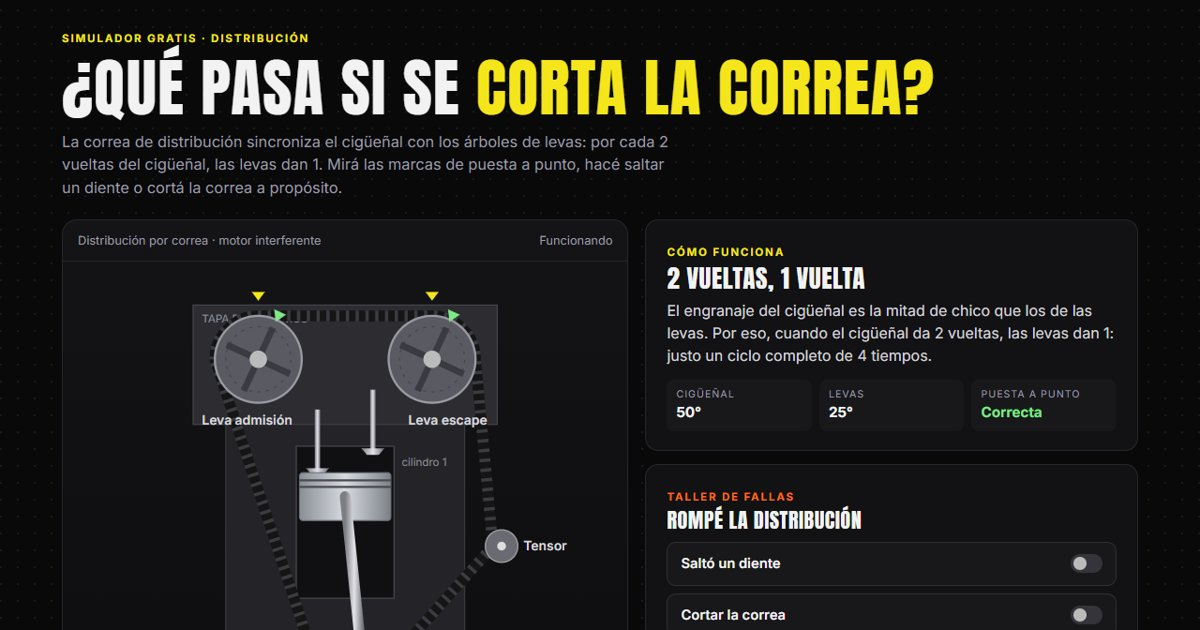
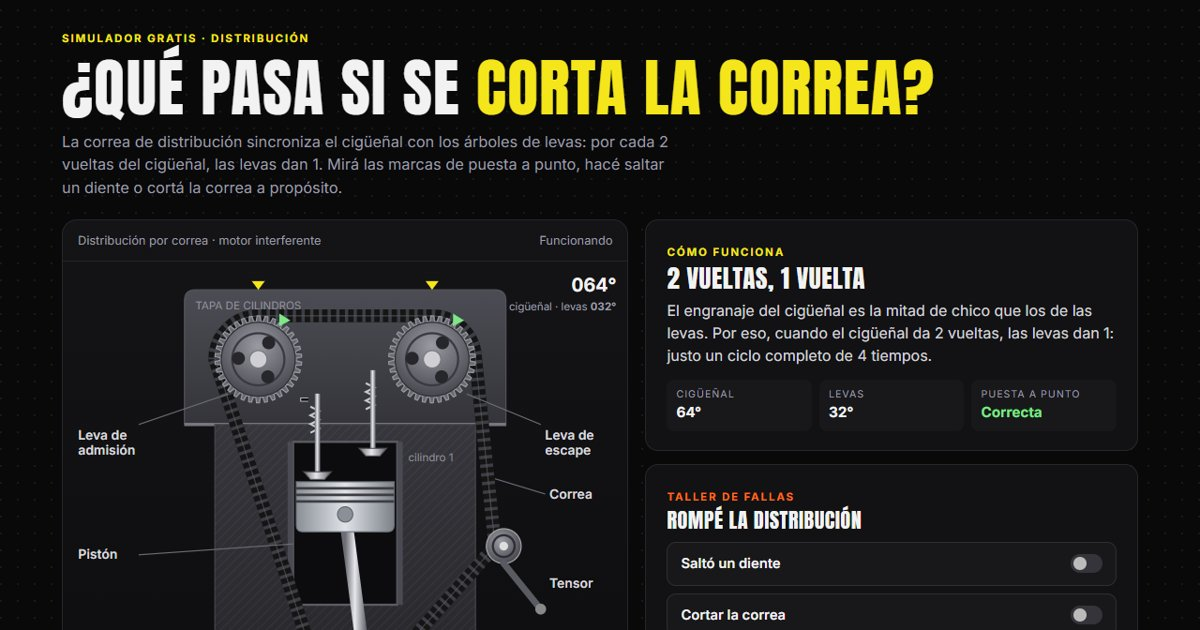
Simuladores de carga y distribución: dibujo más detallado

diff --git a/sistema-de-carga.html b/sistema-de-carga.html
@@ -48,67 +48,99 @@
     <section class="banco" aria-label="Sistema de carga y arranque">
       <div class="barra"><span>Circuito de carga y arranque · esquema simplificado</span><span id="estadoTxt">Motor apagado</span></div>
       <div class="escena">
-        <svg viewBox="0 0 520 400" role="img" aria-label="Esquema con batería, burro de arranque, alternador y motor">
+        <svg viewBox="0 0 520 400" role="img" aria-label="Batería, burro de arranque, alternador y motor conectados">
           <defs>
-            <linearGradient id="gBat" x1="0" y1="0" x2="0" y2="1"><stop offset="0" stop-color="#2d2d33"/><stop offset="1" stop-color="#1b1b1f"/></linearGradient>
-            <linearGradient id="gMet" x1="0" x2="1"><stop offset="0" stop-color="#77777f"/><stop offset=".5" stop-color="#d9d9df"/><stop offset="1" stop-color="#6c6c74"/></linearGradient>
-            <linearGradient id="gBlk" x1="0" y1="0" x2="0" y2="1"><stop offset="0" stop-color="#3d3d43"/><stop offset="1" stop-color="#2a2a2f"/></linearGradient>
+            <linearGradient id="gBat" x1="0" x2="1"><stop offset="0" stop-color="#1c1c21"/><stop offset=".55" stop-color="#34343c"/><stop offset="1" stop-color="#18181c"/></linearGradient>
+            <linearGradient id="gBatTop" x1="0" y1="0" x2="0" y2="1"><stop offset="0" stop-color="#3c3c44"/><stop offset="1" stop-color="#26262c"/></linearGradient>
+            <linearGradient id="gMet" x1="0" x2="1"><stop offset="0" stop-color="#6c6c74"/><stop offset=".45" stop-color="#e3e3e9"/><stop offset=".6" stop-color="#bdbdc4"/><stop offset="1" stop-color="#5f5f67"/></linearGradient>
+            <linearGradient id="gMetV" x1="0" y1="0" x2="0" y2="1"><stop offset="0" stop-color="#d9d9df"/><stop offset=".5" stop-color="#9a9aa2"/><stop offset="1" stop-color="#5c5c64"/></linearGradient>
+            <linearGradient id="gBlk" x1="0" y1="0" x2="0" y2="1"><stop offset="0" stop-color="#4a4a51"/><stop offset="1" stop-color="#2b2b30"/></linearGradient>
+            <linearGradient id="gTapa" x1="0" y1="0" x2="0" y2="1"><stop offset="0" stop-color="#e8d84a"/><stop offset="1" stop-color="#9c8c12"/></linearGradient>
+            <radialGradient id="gAlt" cx=".4" cy=".35" r=".7"><stop offset="0" stop-color="#e9e9ee"/><stop offset=".6" stop-color="#a5a5ad"/><stop offset="1" stop-color="#5d5d65"/></radialGradient>
+            <radialGradient id="gPiso" cx=".5" cy=".5" r=".5"><stop offset="0" stop-color="#26262b"/><stop offset="1" stop-color="#26262b" stop-opacity="0"/></radialGradient>
+            <filter id="brillo" x="-50%" y="-50%" width="200%" height="200%"><feGaussianBlur stdDeviation="2.5" result="b"/><feMerge><feMergeNode in="b"/><feMergeNode in="SourceGraphic"/></feMerge></filter>
           </defs>
+          <ellipse cx="310" cy="372" rx="200" ry="16" fill="url(#gPiso)"/>
+          <ellipse cx="102" cy="332" rx="86" ry="10" fill="url(#gPiso)"/>
+
           <!-- Tablero -->
-          <rect x="24" y="24" width="150" height="86" rx="12" fill="#151518" stroke="#2c2c32"/>
-          <text class="lblsub" x="36" y="44">TABLERO</text>
-          <g id="lampara"><rect x="36" y="54" width="44" height="30" rx="5" fill="#2a1410" stroke="#4a2018"/><rect x="44" y="61" width="28" height="16" rx="2" fill="none" stroke="#5a2a20" stroke-width="2" id="lampIcon"/><path d="M50 61v-3M66 61v-3" stroke="#5a2a20" stroke-width="2" id="lampPins"/></g>
-          <text class="lblsub" x="36" y="100" id="lampTxt">Testigo apagado</text>
-          <g id="llave"><circle cx="138" cy="68" r="22" fill="#1e1e22" stroke="#3a3a42"/><g id="llaveRot"><rect x="134" y="50" width="8" height="36" rx="3" fill="url(#gMet)"/></g></g>
-          <!-- Motor (block) -->
-          <rect x="210" y="120" width="190" height="150" rx="14" fill="url(#gBlk)" stroke="#47474f"/>
-          <path d="M226 140h158M226 160h158" stroke="#4a4a52"/>
-          <text class="lbl" x="300" y="150">MOTOR</text>
+          <rect x="24" y="24" width="152" height="90" rx="14" fill="#141417" stroke="#2c2c32"/>
+          <text class="lblsub" x="38" y="44">TABLERO</text>
+          <g id="lampara"><rect x="36" y="54" width="46" height="32" rx="6" fill="#2a1410" stroke="#4a2018"/><rect x="45" y="62" width="28" height="16" rx="2" fill="none" stroke="#5a2a20" stroke-width="2" id="lampIcon"/><path d="M51 62v-3M67 62v-3M50 70h6M64 67v6M61 70h6" stroke="#5a2a20" stroke-width="2" id="lampPins"/></g>
+          <text class="lblsub" x="36" y="104" id="lampTxt">Testigo apagado</text>
+          <g id="llave"><circle cx="138" cy="70" r="24" fill="#1c1c20" stroke="#3a3a42" stroke-width="2"/><circle cx="138" cy="70" r="17" fill="#26262b"/>
+            <text x="112" y="52" font-size="7" fill="#777">OFF</text><text x="156" y="54" font-size="7" fill="#777">ON</text><text x="160" y="84" font-size="7" fill="#777">ST</text>
+            <g id="llaveRot"><rect x="134" y="52" width="8" height="36" rx="3" fill="url(#gMet)"/><circle cx="138" cy="70" r="4" fill="#444"/></g></g>
+
+          <!-- Motor -->
+          <rect x="222" y="96" width="176" height="30" rx="10" fill="url(#gTapa)" stroke="#6b600c"/>
+          <text x="282" y="116" font-family="Anton,Impact,sans-serif" font-size="14" fill="#2a2604" letter-spacing="2">AC MOTORS</text>
+          <rect x="214" y="126" width="192" height="30" rx="4" fill="#3e3e45" stroke="#55555d"/>
+          <path d="M210 156 H410 V284 H210 Z" fill="url(#gBlk)" stroke="#55555d"/>
+          <path d="M300 170v100M340 170v100M380 170v100" stroke="#3a3a40" stroke-width="3"/>
+          <path d="M222 284 H398 L392 304 H228 Z" fill="#26262b" stroke="#45454d"/>
           <!-- Correa -->
-          <path id="correa" d="" fill="none" stroke="#111" stroke-width="7" stroke-linejoin="round"/>
-          <path id="correaMarca" d="" fill="none" stroke="#3a3a40" stroke-width="7" stroke-dasharray="3 9"/>
-          <g id="poleaCig"><circle cx="260" cy="240" r="26" fill="#55555c" stroke="#86868e" stroke-width="2"/><path d="M260 216v48M236 240h48" stroke="#2c2c31" stroke-width="5"/><circle cx="260" cy="240" r="6" fill="#bbb"/></g>
+          <path id="correa" d="" fill="none" stroke="#0f0f11" stroke-width="8" stroke-linejoin="round"/>
+          <path id="correaMarca" d="" fill="none" stroke="#3a3a42" stroke-width="8" stroke-dasharray="2 6"/>
+          <!-- Polea del cigüeñal -->
+          <g id="poleaCig"><circle cx="260" cy="240" r="27" fill="#4a4a52" stroke="#8a8a92" stroke-width="2"/><circle cx="260" cy="240" r="21" fill="none" stroke="#2c2c31" stroke-width="2"/><circle cx="260" cy="240" r="15" fill="#5c5c64"/>
+            <path d="M260 226v28M246 240h28" stroke="#2c2c31" stroke-width="4"/><circle cx="260" cy="240" r="5" fill="#cfcfd5"/><circle cx="260" cy="216" r="2.5" fill="#f5e61b"/></g>
           <!-- Alternador -->
           <g id="alternador">
-            <circle cx="440" cy="110" r="44" fill="url(#gMet)" stroke="#5a5a62" stroke-width="2"/>
-            <circle cx="440" cy="110" r="34" fill="none" stroke="#6f6f77" stroke-dasharray="4 4"/>
-            <g id="poleaAlt"><circle cx="440" cy="110" r="15" fill="#3a3a41" stroke="#999"/><path d="M440 96v28M426 110h28" stroke="#222" stroke-width="4"/></g>
-            <circle cx="474" cy="146" r="6" fill="#c33" stroke="#fff" stroke-width="1"/>
+            <circle cx="440" cy="110" r="45" fill="url(#gAlt)" stroke="#4d4d55" stroke-width="2"/>
+            <g stroke="#55555d" stroke-width="3" stroke-linecap="round"><path d="M440 70v8M440 142v8M400 110h8M472 110h8M412 82l6 6M462 132l6 6M468 82l-6 6M418 132l-6 6"/></g>
+            <circle cx="440" cy="110" r="27" fill="#2b2b30" stroke="#6a6a72"/>
+            <g id="poleaAlt"><circle cx="440" cy="110" r="16" fill="#46464e" stroke="#9a9aa2" stroke-width="2"/><circle cx="440" cy="110" r="11" fill="none" stroke="#2a2a2f" stroke-width="2"/><path d="M440 98v24M428 110h24" stroke="#25252a" stroke-width="3"/><circle cx="440" cy="110" r="3" fill="#ddd"/></g>
+            <rect x="466" y="140" width="16" height="12" rx="3" fill="#b3261e"/>
           </g>
-          <text class="lbl" x="400" y="40">Alternador</text><text class="lblsub" x="400" y="52">carga la batería</text>
           <!-- Burro de arranque -->
           <g id="burro">
-            <rect x="300" y="292" width="110" height="46" rx="20" fill="url(#gMet)" stroke="#5a5a62"/>
-            <rect x="320" y="280" width="64" height="20" rx="8" fill="#9a9aa2" stroke="#5a5a62"/>
-            <circle cx="404" cy="300" r="5" fill="#c33" stroke="#fff"/>
-            <g id="pinon"><circle cx="292" cy="315" r="12" fill="#6c6c74" stroke="#aaa"/><path d="M292 303v24M280 315h24M284 307l16 16M300 307l-16 16" stroke="#3a3a40" stroke-width="2"/></g>
+            <path d="M300 300 Q300 292 308 292 H404 Q412 292 412 300 V330 Q412 338 404 338 H308 Q300 338 300 330 Z" fill="url(#gMetV)" stroke="#55555d"/>
+            <path d="M318 292v46M338 292v46M358 292v46" stroke="#7a7a82" opacity=".6"/>
+            <rect x="322" y="272" width="72" height="22" rx="10" fill="url(#gMet)" stroke="#55555d"/>
+            <rect x="398" y="292" width="12" height="16" rx="3" fill="#b3261e"/>
+            <path d="M280 306 h20 v18 h-20 z" fill="#6a6a72"/>
+            <g id="pinon"><circle cx="292" cy="315" r="12" fill="#77777f" stroke="#b0b0b8"/><path d="M292 301v-3M292 329v3M278 315h-3M306 315h3M282 305l-2-2M302 325l2 2M302 305l2-2M282 325l-2 2" stroke="#b0b0b8" stroke-width="3"/><circle cx="292" cy="315" r="4" fill="#ddd"/></g>
           </g>
-          <text class="lbl" x="304" y="360">Burro de arranque</text>
-          <text class="lblsub" x="304" y="372" id="burroTxt">en reposo</text>
           <!-- Batería -->
           <g id="bateria">
-            <rect x="34" y="226" width="140" height="100" rx="10" fill="url(#gBat)" stroke="#45454d"/>
-            <rect x="34" y="226" width="140" height="18" rx="8" fill="#26262b"/>
-            <rect x="52" y="212" width="22" height="16" rx="3" fill="#c33"/><text x="58" y="224" font-size="13" font-weight="700" fill="#fff">+</text>
-            <rect x="134" y="212" width="22" height="16" rx="3" fill="#333" stroke="#777"/><text x="141" y="224" font-size="14" font-weight="700" fill="#fff">−</text>
-            <g id="sulfato" opacity="0"><circle cx="58" cy="212" r="7" fill="#d8f0e0"/><circle cx="68" cy="210" r="6" fill="#bfe3cc"/><circle cx="63" cy="205" r="5" fill="#e9fbf0"/></g>
-            <rect x="52" y="262" width="104" height="14" rx="7" fill="#101012"/>
-            <rect id="carga" x="54" y="264" width="100" height="10" rx="5" fill="var(--ok)"/>
-            <text class="lblsub" x="52" y="296">Batería 12 V</text>
-            <text class="lblsub" x="52" y="310" id="cargaTxt">carga plena</text>
+            <rect x="32" y="232" width="144" height="94" rx="8" fill="url(#gBat)" stroke="#45454d"/>
+            <rect x="28" y="222" width="152" height="18" rx="6" fill="url(#gBatTop)" stroke="#4a4a52"/>
+            <g fill="#1f1f24" stroke="#4a4a52"><rect x="82" y="226" width="10" height="8" rx="2"/><rect x="98" y="226" width="10" height="8" rx="2"/><rect x="114" y="226" width="10" height="8" rx="2"/></g>
+            <rect x="54" y="208" width="18" height="16" rx="3" fill="url(#gMetV)"/><circle cx="63" cy="210" r="9" fill="none" stroke="#c62828" stroke-width="3"/>
+            <rect x="136" y="208" width="18" height="16" rx="3" fill="url(#gMetV)"/>
+            <text x="58" y="254" font-size="13" font-weight="700" fill="#e04a3c">+</text><text x="140" y="254" font-size="15" font-weight="700" fill="#bbb">−</text>
+            <g id="sulfato" opacity="0"><circle cx="58" cy="210" r="7" fill="#d8f0e0"/><circle cx="69" cy="207" r="6" fill="#bfe3cc"/><circle cx="62" cy="202" r="5" fill="#e9fbf0"/><circle cx="72" cy="214" r="4" fill="#cfeedc"/></g>
+            <rect x="46" y="262" width="116" height="34" rx="5" fill="#f5e61b"/>
+            <text x="54" y="278" font-family="Anton,Impact,sans-serif" font-size="13" fill="#111">12 V · 65 Ah</text>
+            <text x="54" y="291" font-size="8" font-weight="700" fill="#333">BATERÍA DE ARRANQUE</text>
+            <rect x="46" y="302" width="116" height="10" rx="5" fill="#101012"/>
+            <rect id="carga" x="48" y="304" width="112" height="6" rx="3" fill="#7ee787"/>
+            <text class="lblsub" x="46" y="344" id="cargaTxt">carga plena</text>
           </g>
-          <!-- Cables -->
-          <path id="cPos" d="M63 212 V180 H190 V300 H300" fill="none" stroke="#b3261e" stroke-width="7" stroke-linejoin="round"/>
-          <path id="cAlt" d="M190 180 V96 H330 V60 H474 V146" fill="none" stroke="#b3261e" stroke-width="4" stroke-linejoin="round"/>
-          <path id="cNeg" d="M145 212 V196 H200 V258 H210" fill="none" stroke="#2a2a2a" stroke-width="7" stroke-linejoin="round"/>
-          <path id="fPos" d="M63 212 V180 H190 V300 H300" fill="none" stroke="#ffe25a" stroke-width="3" stroke-dasharray="6 14" opacity="0"/>
-          <path id="fAlt" d="M474 146 V60 H330 V96 H190 V180 H63 V212" fill="none" stroke="#7ee787" stroke-width="3" stroke-dasharray="6 14" opacity="0"/>
+          <!-- Cables (base + brillo) -->
+          <g fill="none" stroke-linejoin="round" stroke-linecap="round">
+            <path id="cPos" d="M63 210 V188 Q63 180 71 180 H182 Q190 180 190 188 V292 Q190 300 198 300 H398" stroke="#7d1a14" stroke-width="8"/>
+            <path d="M63 210 V188 Q63 180 71 180 H182 Q190 180 190 188 V292 Q190 300 198 300 H398" stroke="#d2382c" stroke-width="3"/>
+            <path id="cAlt" d="M190 180 V82 Q190 74 198 74 H496 Q504 74 504 82 V138 Q504 146 496 146 H482" stroke="#7d1a14" stroke-width="5"/>
+            <path d="M190 180 V82 Q190 74 198 74 H496 Q504 74 504 82 V138 Q504 146 496 146 H482" stroke="#d2382c" stroke-width="1.6"/>
+            <path id="cNeg" d="M145 210 V196 Q145 190 151 190 H170 Q176 190 176 196 L204 262 H222" stroke="#111" stroke-width="8"/>
+            <path d="M145 210 V196 Q145 190 151 190 H170 Q176 190 176 196 L204 262 H222" stroke="#4a4a52" stroke-width="2.4"/>
+            <circle cx="226" cy="262" r="5" fill="#8a8a92" stroke="#222"/>
+            <path id="fPos" d="M63 210 V188 Q63 180 71 180 H182 Q190 180 190 188 V292 Q190 300 198 300 H398" stroke="#ffe25a" stroke-width="3" stroke-dasharray="6 14" opacity="0" filter="url(#brillo)"/>
+            <path id="fAlt" d="M482 146 H496 Q504 146 504 138 V82 Q504 74 496 74 H198 Q190 74 190 82 V180 H71 Q63 180 63 188 V210" stroke="#7ee787" stroke-width="3" stroke-dasharray="6 14" opacity="0" filter="url(#brillo)"/>
+          </g>
+          <!-- Etiquetas -->
+          <text class="lbl" x="372" y="30">Alternador</text><text class="lblsub" x="372" y="44">carga la batería en marcha</text>
+          <text class="lbl" x="196" y="362">Polea del cigüeñal</text><line x1="252" y1="268" x2="240" y2="350" stroke="#6b6b75"/>
+          <text class="lbl" x="318" y="360">Burro de arranque</text><text class="lblsub" x="318" y="374" id="burroTxt">en reposo</text>
+          <text class="lblsub" x="194" y="250">masa</text>
           <!-- Puntas del tester -->
-          <g id="puntas">
+          <g id="puntas" filter="url(#brillo)">
             <circle id="pRoja" r="7" fill="#e53935" stroke="#fff" stroke-width="2"/>
             <circle id="pNegra" r="7" fill="#111" stroke="#fff" stroke-width="2"/>
           </g>
-          <text id="chispazo" x="246" y="314" font-size="15" font-weight="700" fill="#ffb020" opacity="0">¡clic!</text>
+          <text id="chispazo" x="232" y="334" font-family="Anton,Impact,sans-serif" font-size="18" fill="#ffb020" opacity="0">¡CLIC!</text>
         </svg>
       </div>
       <div class="controles">
@@ -172,7 +204,7 @@
 const $=s=>document.querySelector(s);
 let modo="apagado",punto="bat",falla={},rotC=0,rotA=0,flujo=0,ult=performance.now();
 const reduce=matchMedia("(prefers-reduced-motion: reduce)").matches;
-const PUNTOS={bat:[[63,212],[145,212]],burro:[[404,300],[226,262]],masa:[[226,262],[145,212]]};
+const PUNTOS={bat:[[63,210],[145,210]],burro:[[404,300],[226,262]],masa:[[226,262],[145,210]]};
 
 function lectura(){
   const b=falla.bateria,a=falla.alternador,s=falla.borne;
@@ -205,7 +237,7 @@ function veredicto(v){
 }
 function correa(){
   // tangentes aproximadas entre polea del cigüeñal (260,240,r26) y alternador (440,110,r15)
-  return "M248 216 L428 99 A15 15 0 0 1 452 120 L282 254 A26 26 0 1 1 248 216 Z";
+  return "M247 216 L429 97 A17 17 0 0 1 455 120 L284 255 A28 28 0 1 1 247 216 Z";
 }
 $("#correa").setAttribute("d",correa());$("#correaMarca").setAttribute("d",correa());
 
@@ -216,7 +248,7 @@ function actualizar(){
   const [r,n]=PUNTOS[punto];
   $("#pRoja").setAttribute("cx",r[0]);$("#pRoja").setAttribute("cy",r[1]);$("#pNegra").setAttribute("cx",n[0]);$("#pNegra").setAttribute("cy",n[1]);
   // batería visual
-  const nivel=falla.bateria?.22:1;$("#carga").setAttribute("width",100*nivel);$("#carga").setAttribute("fill",falla.bateria?"var(--mal)":"var(--ok)");
+  const nivel=falla.bateria?.22:1;$("#carga").setAttribute("width",112*nivel);$("#carga").setAttribute("fill",falla.bateria?"var(--mal)":"var(--ok)");
   $("#cargaTxt").textContent=falla.bateria?"descargada":"carga plena";
   $("#sulfato").setAttribute("opacity",falla.borne?1:0);
   // testigo
@@ -224,7 +256,7 @@ function actualizar(){
   $("#lampara rect").setAttribute("fill",on?"#ff3b2f":"#2a1410");
   $("#lampIcon").setAttribute("stroke",on?"#fff":"#5a2a20");$("#lampPins").setAttribute("stroke",on?"#fff":"#5a2a20");
   $("#lampTxt").textContent=on?"Testigo de batería ENCENDIDO":"Testigo apagado";
-  $("#llaveRot").setAttribute("transform",`rotate(${modo==="apagado"?0:modo==="arranque"?90:60} 138 68)`);
+  $("#llaveRot").setAttribute("transform",`rotate(${modo==="apagado"?-35:modo==="arranque"?70:35} 138 70)`);
   $("#estadoTxt").textContent={apagado:"Motor apagado",arranque:"Girando la llave: arrancando",marcha:"Motor en marcha"}[modo];
   const gira=modo==="marcha"||(modo==="arranque"&&!falla.borne);
   $("#burroTxt").textContent=modo==="arranque"?(falla.borne?"hace clic, no gira":falla.bateria?"gira lento":"gira y mueve el motor"):"en reposo";

diff --git a/distribucion.html b/distribucion.html
@@ -21,6 +21,9 @@
   .alerta{position:absolute;left:50%;top:44%;transform:translate(-50%,-50%);background:var(--mal);color:#fff;font-family:var(--display);font-size:clamp(1.6rem,5vw,2.6rem);text-transform:uppercase;padding:10px 22px;border-radius:12px;box-shadow:0 0 40px rgba(255,90,60,.6);pointer-events:none;text-align:center;line-height:1.05}
   .alerta small{display:block;font-family:var(--body);font-size:.9rem;text-transform:none;font-weight:600}
   .marcaok{fill:var(--ok)} .marcamal{fill:var(--mal)}
+  .hud{position:absolute;top:10px;right:12px;display:flex;flex-direction:column;align-items:flex-end;pointer-events:none;font-variant-numeric:tabular-nums}
+  .hud .deg{font-weight:700;font-size:1.25rem}
+  .hud .rpm{font-size:.72rem;color:var(--suave)}
 </style>
 </head>
 <body>
@@ -37,42 +40,58 @@
     <section class="banco" aria-label="Distribución animada">
       <div class="barra"><span>Distribución por correa · motor interferente</span><span id="estadoTxt">Funcionando</span></div>
       <div class="escena">
+        <div class="hud"><span class="deg" id="hudG">000°</span><span class="rpm">cigüeñal · levas <b id="hudL">000°</b></span></div>
         <div class="alerta" id="alerta" hidden>¡Choque!<small>Las válvulas golpearon el pistón</small></div>
         <svg viewBox="0 0 520 470" role="img" aria-label="Correa de distribución con dos árboles de levas, cigüeñal, tensor y un cilindro en corte">
           <defs>
-            <linearGradient id="gMet" x1="0" x2="1"><stop offset="0" stop-color="#7d7d84"/><stop offset=".5" stop-color="#e2e2e8"/><stop offset="1" stop-color="#6f6f76"/></linearGradient>
-            <linearGradient id="gAlu" x1="0" x2="1"><stop offset="0" stop-color="#8a8f96"/><stop offset=".5" stop-color="#d7dbe0"/><stop offset="1" stop-color="#7c8188"/></linearGradient>
+            <linearGradient id="gMet" x1="0" x2="1"><stop offset="0" stop-color="#6c6c74"/><stop offset=".45" stop-color="#e6e6ec"/><stop offset=".6" stop-color="#c0c0c7"/><stop offset="1" stop-color="#606068"/></linearGradient>
+            <linearGradient id="gAlu" x1="0" x2="1"><stop offset="0" stop-color="#8a8f96"/><stop offset=".5" stop-color="#dfe3e8"/><stop offset="1" stop-color="#7c8188"/></linearGradient>
+            <linearGradient id="gTapa" x1="0" y1="0" x2="0" y2="1"><stop offset="0" stop-color="#4c4c54"/><stop offset="1" stop-color="#34343a"/></linearGradient>
+            <linearGradient id="gBlk" x1="0" y1="0" x2="0" y2="1"><stop offset="0" stop-color="#36363c"/><stop offset="1" stop-color="#232327"/></linearGradient>
+            <radialGradient id="gEng" cx=".4" cy=".35" r=".75"><stop offset="0" stop-color="#9a9aa2"/><stop offset=".7" stop-color="#5a5a62"/><stop offset="1" stop-color="#3e3e45"/></radialGradient>
+            <pattern id="hatch" width="6" height="6" patternUnits="userSpaceOnUse" patternTransform="rotate(45)"><line x1="0" y1="0" x2="0" y2="6" stroke="#ffffff" stroke-opacity=".05" stroke-width="2"/></pattern>
+            <radialGradient id="gPiso" cx=".5" cy=".5" r=".5"><stop offset="0" stop-color="#26262b"/><stop offset="1" stop-color="#26262b" stop-opacity="0"/></radialGradient>
           </defs>
-          <!-- Block y tapa -->
-          <path d="M120 40 H400 V150 H120 Z" fill="#2c2c31" stroke="#45454d"/>
-          <path d="M150 150 H370 V430 H150 Z" fill="#242428" stroke="#3a3a40"/>
-          <text class="lblsub" x="128" y="56">TAPA DE CILINDROS</text>
+          <ellipse cx="260" cy="452" rx="200" ry="14" fill="url(#gPiso)"/>
+          <!-- Tapa de cilindros y block -->
+          <path d="M112 36 Q112 26 122 26 H398 Q408 26 408 36 V150 H112 Z" fill="url(#gTapa)" stroke="#55555d"/>
+          <path d="M112 150 H408" stroke="#77777f" stroke-width="3"/>
+          <path d="M140 150 H380 V420 Q380 438 362 438 H158 Q140 438 140 420 Z" fill="url(#gBlk)" stroke="#45454d"/>
+          <path d="M140 150 H380 V420 Q380 438 362 438 H158 Q140 438 140 420 Z" fill="url(#hatch)"/>
+          <text class="lblsub" x="122" y="44">TAPA DE CILINDROS</text>
+          <text class="lblsub" x="150" y="432">BLOCK</text>
           <!-- Cilindro en corte -->
-          <rect x="215" y="170" width="90" height="140" fill="#101012" stroke="#4a4a52"/>
-          <g id="valA"><rect x="232" y="118" width="5" height="56" fill="url(#gMet)"/><path d="M224 172 H245 L240 178 H229 Z" fill="url(#gMet)"/></g>
-          <g id="valE"><rect x="283" y="118" width="5" height="56" fill="url(#gMet)"/><path d="M275 172 H296 L291 178 H280 Z" fill="url(#gMet)"/></g>
-          <g id="piston"><rect x="218" y="0" width="84" height="44" rx="3" fill="url(#gAlu)" stroke="#6f747b"/><path d="M218 7h84M218 13h84" stroke="#4a4a50" stroke-width="2"/></g>
-          <line id="biela" x1="260" y1="0" x2="260" y2="380" stroke="url(#gMet)" stroke-width="10" stroke-linecap="round"/>
-          <text class="lblsub" x="312" y="188">cilindro 1</text>
-          <!-- Correa -->
-          <path id="correa" d="M140 90 A40 40 0 0 1 180 50 L340 50 A40 40 0 0 1 380 90 L396 262 L280 392 A20 20 0 0 1 240 392 Z" fill="none" stroke="#151515" stroke-width="10" stroke-linejoin="round"/>
-          <path id="dientes" d="M140 90 A40 40 0 0 1 180 50 L340 50 A40 40 0 0 1 380 90 L396 262 L280 392 A20 20 0 0 1 240 392 Z" fill="none" stroke="#3b3b42" stroke-width="10" stroke-dasharray="3 6" stroke-linejoin="round"/>
-          <!-- Engranajes de levas -->
-          <g id="levaI"><circle cx="180" cy="90" r="40" fill="#5a5a62" stroke="#9a9aa2" stroke-width="2"/><circle cx="180" cy="90" r="30" fill="none" stroke="#45454c" stroke-dasharray="3 5"/><path d="M180 58v64M148 90h64" stroke="#3a3a41" stroke-width="6"/><circle cx="180" cy="90" r="8" fill="#bbb"/><path d="M180 52 l-6 -10 h12 z" class="marcaok" id="mI"/></g>
-          <g id="levaE"><circle cx="340" cy="90" r="40" fill="#5a5a62" stroke="#9a9aa2" stroke-width="2"/><circle cx="340" cy="90" r="30" fill="none" stroke="#45454c" stroke-dasharray="3 5"/><path d="M340 58v64M308 90h64" stroke="#3a3a41" stroke-width="6"/><circle cx="340" cy="90" r="8" fill="#bbb"/><path d="M340 52 l-6 -10 h12 z" class="marcaok" id="mE"/></g>
+          <rect x="212" y="166" width="96" height="150" fill="#0c0c0e" stroke="#5c5c64" stroke-width="2"/>
+          <rect x="207" y="166" width="5" height="150" fill="#4a4a52"/><rect x="308" y="166" width="5" height="150" fill="#4a4a52"/>
+          <g id="valA"><path d="M226 104 l-7 0 0 3 7 0" stroke="#bbb"/><path d="M228 112 l8 4 -8 4 8 4 -8 4 8 4 -8 4" fill="none" stroke="#c9c9cf" stroke-width="1.8"/><rect x="232" y="100" width="5" height="74" fill="url(#gMet)"/><path d="M222 172 H247 L241 179 H228 Z" fill="url(#gMet)" stroke="#555"/></g>
+          <g id="valE"><path d="M279 112 l8 4 -8 4 8 4 -8 4 8 4 -8 4" fill="none" stroke="#c9c9cf" stroke-width="1.8"/><rect x="283" y="100" width="5" height="74" fill="url(#gMet)"/><path d="M273 172 H298 L292 179 H279 Z" fill="url(#gMet)" stroke="#555"/></g>
+          <line id="biela" x1="260" y1="0" x2="260" y2="380" stroke="url(#gMet)" stroke-width="12" stroke-linecap="round"/>
+          <g id="piston"><path d="M215 0 H305 V40 Q305 46 299 46 H221 Q215 46 215 40 Z" fill="url(#gAlu)" stroke="#6f747b"/><path d="M215 6h90M215 12h90M215 18h90" stroke="#3d3d42" stroke-width="2.4"/><circle cx="260" cy="30" r="7" fill="#8b9097" stroke="#5f646b"/></g>
+          <text class="lblsub" x="318" y="184">cilindro 1</text>
+          <!-- Correa dentada -->
+          <path id="correa" d="M140 90 A40 40 0 0 1 180 50 L340 50 A40 40 0 0 1 380 90 L398 262 L280 394 A20 20 0 0 1 240 394 Z" fill="none" stroke="#141416" stroke-width="12" stroke-linejoin="round"/>
+          <path id="dientes" d="M140 90 A40 40 0 0 1 180 50 L340 50 A40 40 0 0 1 380 90 L398 262 L280 394 A20 20 0 0 1 240 394 Z" fill="none" stroke="#3d3d45" stroke-width="12" stroke-dasharray="3 5" stroke-linejoin="round"/>
+          <path d="M140 90 A40 40 0 0 1 180 50 L340 50 A40 40 0 0 1 380 90 L398 262 L280 394 A20 20 0 0 1 240 394 Z" fill="none" stroke="#5a5a62" stroke-width="1" stroke-linejoin="round" opacity=".7"/>
+          <!-- Engranajes de levas (los dientes se agregan con código) -->
+          <g id="levaI"><g class="dent" data-r="40" data-n="34"></g><circle cx="180" cy="90" r="34" fill="url(#gEng)" stroke="#2c2c31"/><circle cx="180" cy="90" r="24" fill="none" stroke="#3a3a41" stroke-width="2"/><g fill="#26262b"><circle cx="180" cy="72" r="6"/><circle cx="196" cy="99" r="6"/><circle cx="164" cy="99" r="6"/></g><circle cx="180" cy="90" r="8" fill="#cfcfd5" stroke="#777"/><path d="M180 54 l-6 -10 h12 z" class="marcaok" id="mI"/></g>
+          <g id="levaE"><g class="dent" data-r="40" data-n="34"></g><circle cx="340" cy="90" r="34" fill="url(#gEng)" stroke="#2c2c31"/><circle cx="340" cy="90" r="24" fill="none" stroke="#3a3a41" stroke-width="2"/><g fill="#26262b"><circle cx="340" cy="72" r="6"/><circle cx="356" cy="99" r="6"/><circle cx="324" cy="99" r="6"/></g><circle cx="340" cy="90" r="8" fill="#cfcfd5" stroke="#777"/><path d="M340 54 l-6 -10 h12 z" class="marcaok" id="mE"/></g>
           <!-- Marcas fijas -->
-          <path d="M174 28 h12 l-6 8 z" fill="var(--amarillo)"/><path d="M334 28 h12 l-6 8 z" fill="var(--amarillo)"/><path d="M254 444 h12 l-6 -8 z" fill="var(--amarillo)"/>
+          <path d="M174 18 h12 l-6 8 z" fill="#f5e61b"/><path d="M334 18 h12 l-6 8 z" fill="#f5e61b"/><path d="M254 448 h12 l-6 -8 z" fill="#f5e61b"/>
           <!-- Tensor -->
-          <g><circle cx="404" cy="262" r="15" fill="#6a6a72" stroke="#aaa"/><circle cx="404" cy="262" r="4" fill="#ddd"/></g>
-          <text class="lbl" x="424" y="266">Tensor</text>
+          <g><circle cx="406" cy="262" r="16" fill="url(#gEng)" stroke="#aaa"/><circle cx="406" cy="262" r="10" fill="none" stroke="#2c2c31" stroke-width="2"/><circle cx="406" cy="262" r="4" fill="#ddd"/><path d="M406 278 L440 320" stroke="#5a5a62" stroke-width="6" stroke-linecap="round"/><circle cx="440" cy="320" r="5" fill="#888"/></g>
           <!-- Cigüeñal -->
-          <g id="cig"><circle cx="260" cy="392" r="20" fill="#5a5a62" stroke="#9a9aa2" stroke-width="2"/><circle cx="260" cy="392" r="6" fill="#bbb"/><path d="M260 412 l-6 10 h12 z" class="marcaok" id="mC"/></g>
-          <circle id="munon" cx="260" cy="380" r="5" fill="#ddd"/>
+          <g id="cig"><g class="dent" data-r="20" data-n="17"></g><circle cx="260" cy="394" r="16" fill="url(#gEng)" stroke="#2c2c31"/><circle cx="260" cy="394" r="6" fill="#cfcfd5"/><path d="M260 414 l-6 10 h12 z" class="marcaok" id="mC"/></g>
+          <circle id="munon" cx="260" cy="380" r="6" fill="#e0e0e6" stroke="#777"/>
           <!-- Etiquetas -->
-          <text class="lbl" x="128" y="150">Leva admisión</text>
-          <text class="lbl" x="318" y="150">Leva escape</text>
-          <text class="lbl" x="290" y="420">Cigüeñal</text>
-          <text class="lblsub" x="152" y="462" id="marcasTxt">Marcas alineadas cada 2 vueltas del cigüeñal</text>
+          <g>
+            <line x1="152" y1="122" x2="70" y2="150" stroke="#6b6b75"/><text class="lbl" x="14" y="164">Leva de</text><text class="lbl" x="14" y="178">admisión</text>
+            <line x1="372" y1="122" x2="440" y2="150" stroke="#6b6b75"/><text class="lbl" x="444" y="164">Leva de</text><text class="lbl" x="444" y="178">escape</text>
+            <line x1="398" y1="200" x2="444" y2="214" stroke="#6b6b75"/><text class="lbl" x="448" y="218">Correa</text>
+            <text class="lbl" x="448" y="300">Tensor</text>
+            <line x1="240" y1="394" x2="70" y2="394" stroke="#6b6b75"/><text class="lbl" x="14" y="398">Cigüeñal</text>
+            <line x1="212" y1="260" x2="70" y2="270" stroke="#6b6b75"/><text class="lbl" x="14" y="274">Pistón</text>
+          </g>
+          <text class="lblsub" x="140" y="466" id="marcasTxt">Las 3 marcas amarillas coinciden cada 2 vueltas del cigüeñal</text>
         </svg>
       </div>
       <div class="controles">
@@ -126,8 +145,9 @@
 
 <script>
 const $=s=>document.querySelector(s);
-const R=22,L=110,CX=260,CY=392,DECK=172;
+const R=22,L=110,CX=260,CY=394,DECK=172;
 let cig=0,levas=0,corre=!matchMedia("(prefers-reduced-motion: reduce)").matches,falla={},choque=false,inercia=0,ult=performance.now(),puntoAnim=null;
+document.querySelectorAll(".dent").forEach(g=>{const grp=g.parentNode,c=grp.querySelector("circle"),cx=+c.getAttribute("cx"),cy=+c.getAttribute("cy"),r=+g.dataset.r,n=+g.dataset.n,a=Math.PI*2/n;let d="";for(let i=0;i<n;i++){const t=i*a,pts=[[r-5,t-a*.32],[r,t-a*.18],[r,t+a*.18],[r-5,t+a*.32]];pts.forEach((q,j)=>{d+=(i===0&&j===0?"M":"L")+(cx+q[0]*Math.sin(q[1])).toFixed(1)+" "+(cy-q[0]*Math.cos(q[1])).toFixed(1)+" "})}const el=document.createElementNS("http://www.w3.org/2000/svg","path");el.setAttribute("d",d+"Z");el.setAttribute("fill","#6a6a72");el.setAttribute("stroke","#9a9aa2");g.appendChild(el)});
 function lift(x){return Math.sin(Math.PI*Math.min(1,Math.max(0,x)))*24}
 function dibujar(){
   const th=cig*Math.PI/180;
@@ -136,7 +156,7 @@ function dibujar(){
   // escalar recorrido para el cilindro chico
   const top=DECK+8+(pinY-(CY-R-L))*1.6;
   $("#piston").setAttribute("transform",`translate(0 ${top})`);
-  $("#biela").setAttribute("y1",top+22);$("#biela").setAttribute("x2",px);$("#biela").setAttribute("y2",py);
+  $("#biela").setAttribute("y1",top+30);$("#biela").setAttribute("x2",px);$("#biela").setAttribute("y2",py);
   $("#munon").setAttribute("cx",px);$("#munon").setAttribute("cy",py);
   $("#cig").setAttribute("transform",`rotate(${cig%360} ${CX} ${CY})`);
   const off=falla.diente?16:0, lv=levas+off;
@@ -151,6 +171,7 @@ function dibujar(){
   if(falla.corte&&!choque&&(la>6||le>6)&&top<DECK+8+Math.max(la,le)){choque=true;$("#alerta").hidden=false;corre=false;$("#estadoTxt").textContent="Motor roto";diag();}
   $("#dientes").setAttribute("stroke-dashoffset",falla.corte?0:-cig*.35);
   $("#correa").setAttribute("stroke",falla.corte?"#2a1010":"#151515");$("#dientes").setAttribute("opacity",falla.corte?.25:1);
+  $("#hudG").textContent=String(Math.round(((cig%720)+720)%720)).padStart(3,"0")+"°";$("#hudL").textContent=String(Math.round(((lv%360)+360)%360)).padStart(3,"0")+"°";
   $("#dC").textContent=Math.round(((cig%720)+720)%720)+"°";$("#dL").textContent=Math.round(((lv%360)+360)%360)+"°";
   const mal=falla.diente||falla.corte;
   $("#dP").textContent=falla.corte?"Perdida":falla.diente?"Fuera de punto":"Correcta";$("#dP").style.color=mal?"var(--mal)":"var(--ok)";
